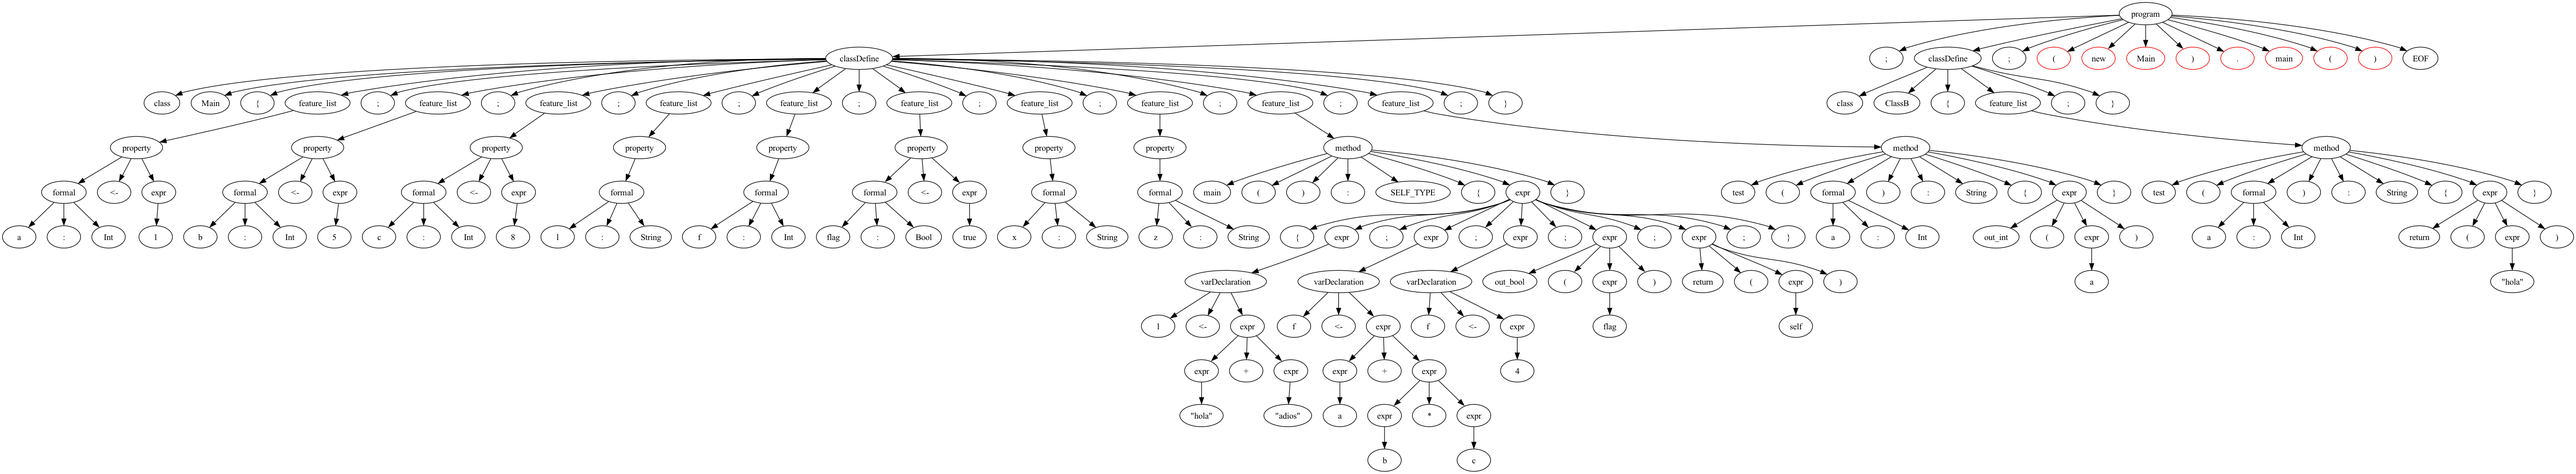
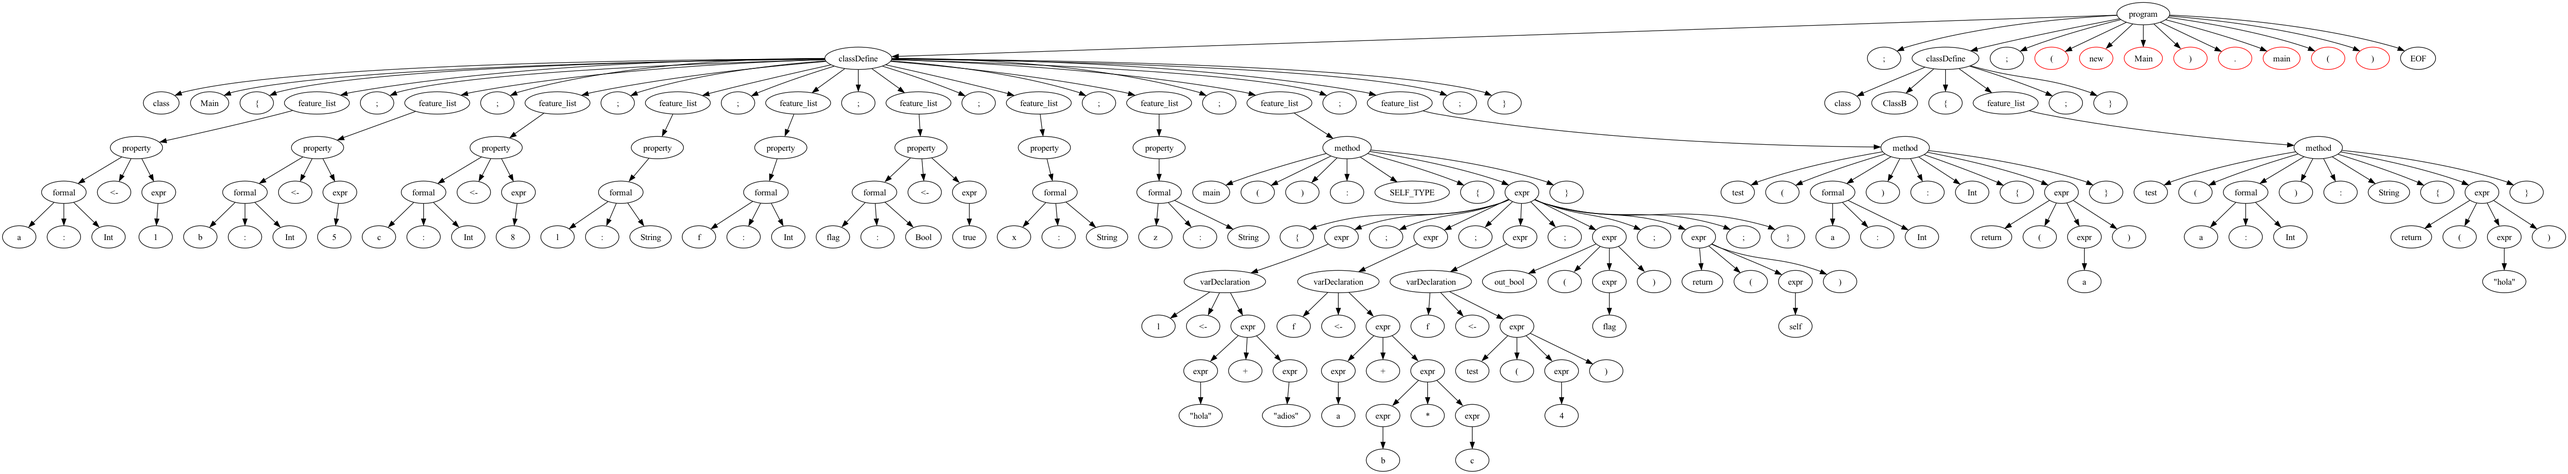
casteo explicito y asignacion

diff --git a/Proyecto1/YAPLSemantic.py b/Proyecto1/YAPLSemantic.py
@@ -122,7 +122,7 @@ class SemanticVisitor:
                     elif var_type.lower() == "bool" and valueType.lower() == "int":
                         pass
                     else:
-                        if symbol.data_type.lower() == "id" or symbol.data_type.lower() == "void":
+                        if symbol.data_type.lower() == "id" or symbol.data_type.lower() == "void": #este no
                             return f"El atributo '{value_node.val}' no ha sido definido en el scope '{varScope}'"
                         else:
                             return f"La variable '{var_name}' debe ser de tipo '{var_type}' no '{symbol.data_type}'"
@@ -136,6 +136,7 @@ class SemanticVisitor:
             stringOperators = ["+", ","]
             intOperators = ["+", "-", "*", "/", "%", "(", ")","~"]
 
+           
             # print("child_values: ", child_values)
             for child in child_values:
                 if child.isalnum():
@@ -152,7 +153,16 @@ class SemanticVisitor:
                     alphanum.append(child)
                 else:
                     operators.append(child)
-          
+
+            if "(" in operators and ")" in operators:
+                symbol_type = self.symbol_table.lookup_by_scope(alphanum[0], varScope)
+                symbol_type_2 = symbol_type.data_type
+                if symbol_type_2.lower() != var_type.lower():
+                    return f"La variable '{alphanum[0]}' debe ser de tipo '{var_type}' no '{symbol_type_2}'"
+                return None
+
+            # print(operators)
+
             firstVal = next(iter(variables.values()))
             if all(value == firstVal for value in variables.values()):
                 if firstVal.lower() != var_type.lower():
@@ -374,8 +384,10 @@ class SemanticVisitor:
                         pass
 
             # Si termina el for sin retornar es porque no encontro el metodo (No esta definido en el scope)        
-
-            return f"El metodo '{methodName}' no ha sido definido en el scope '{nodeScope}'"
+            if methodName == "String" or methodName == "Bool" or methodName == "Int":
+                return f"No se permite el casteo explicito {methodName}"
+            else:
+                return f"El metodo '{methodName}' no ha sido definido en el scope '{nodeScope}'"
         
         elif len(node.children) > 4 and node.children[1].val == "(" and node.children[-1].val == ")":
             methodName = node.children[0].val
